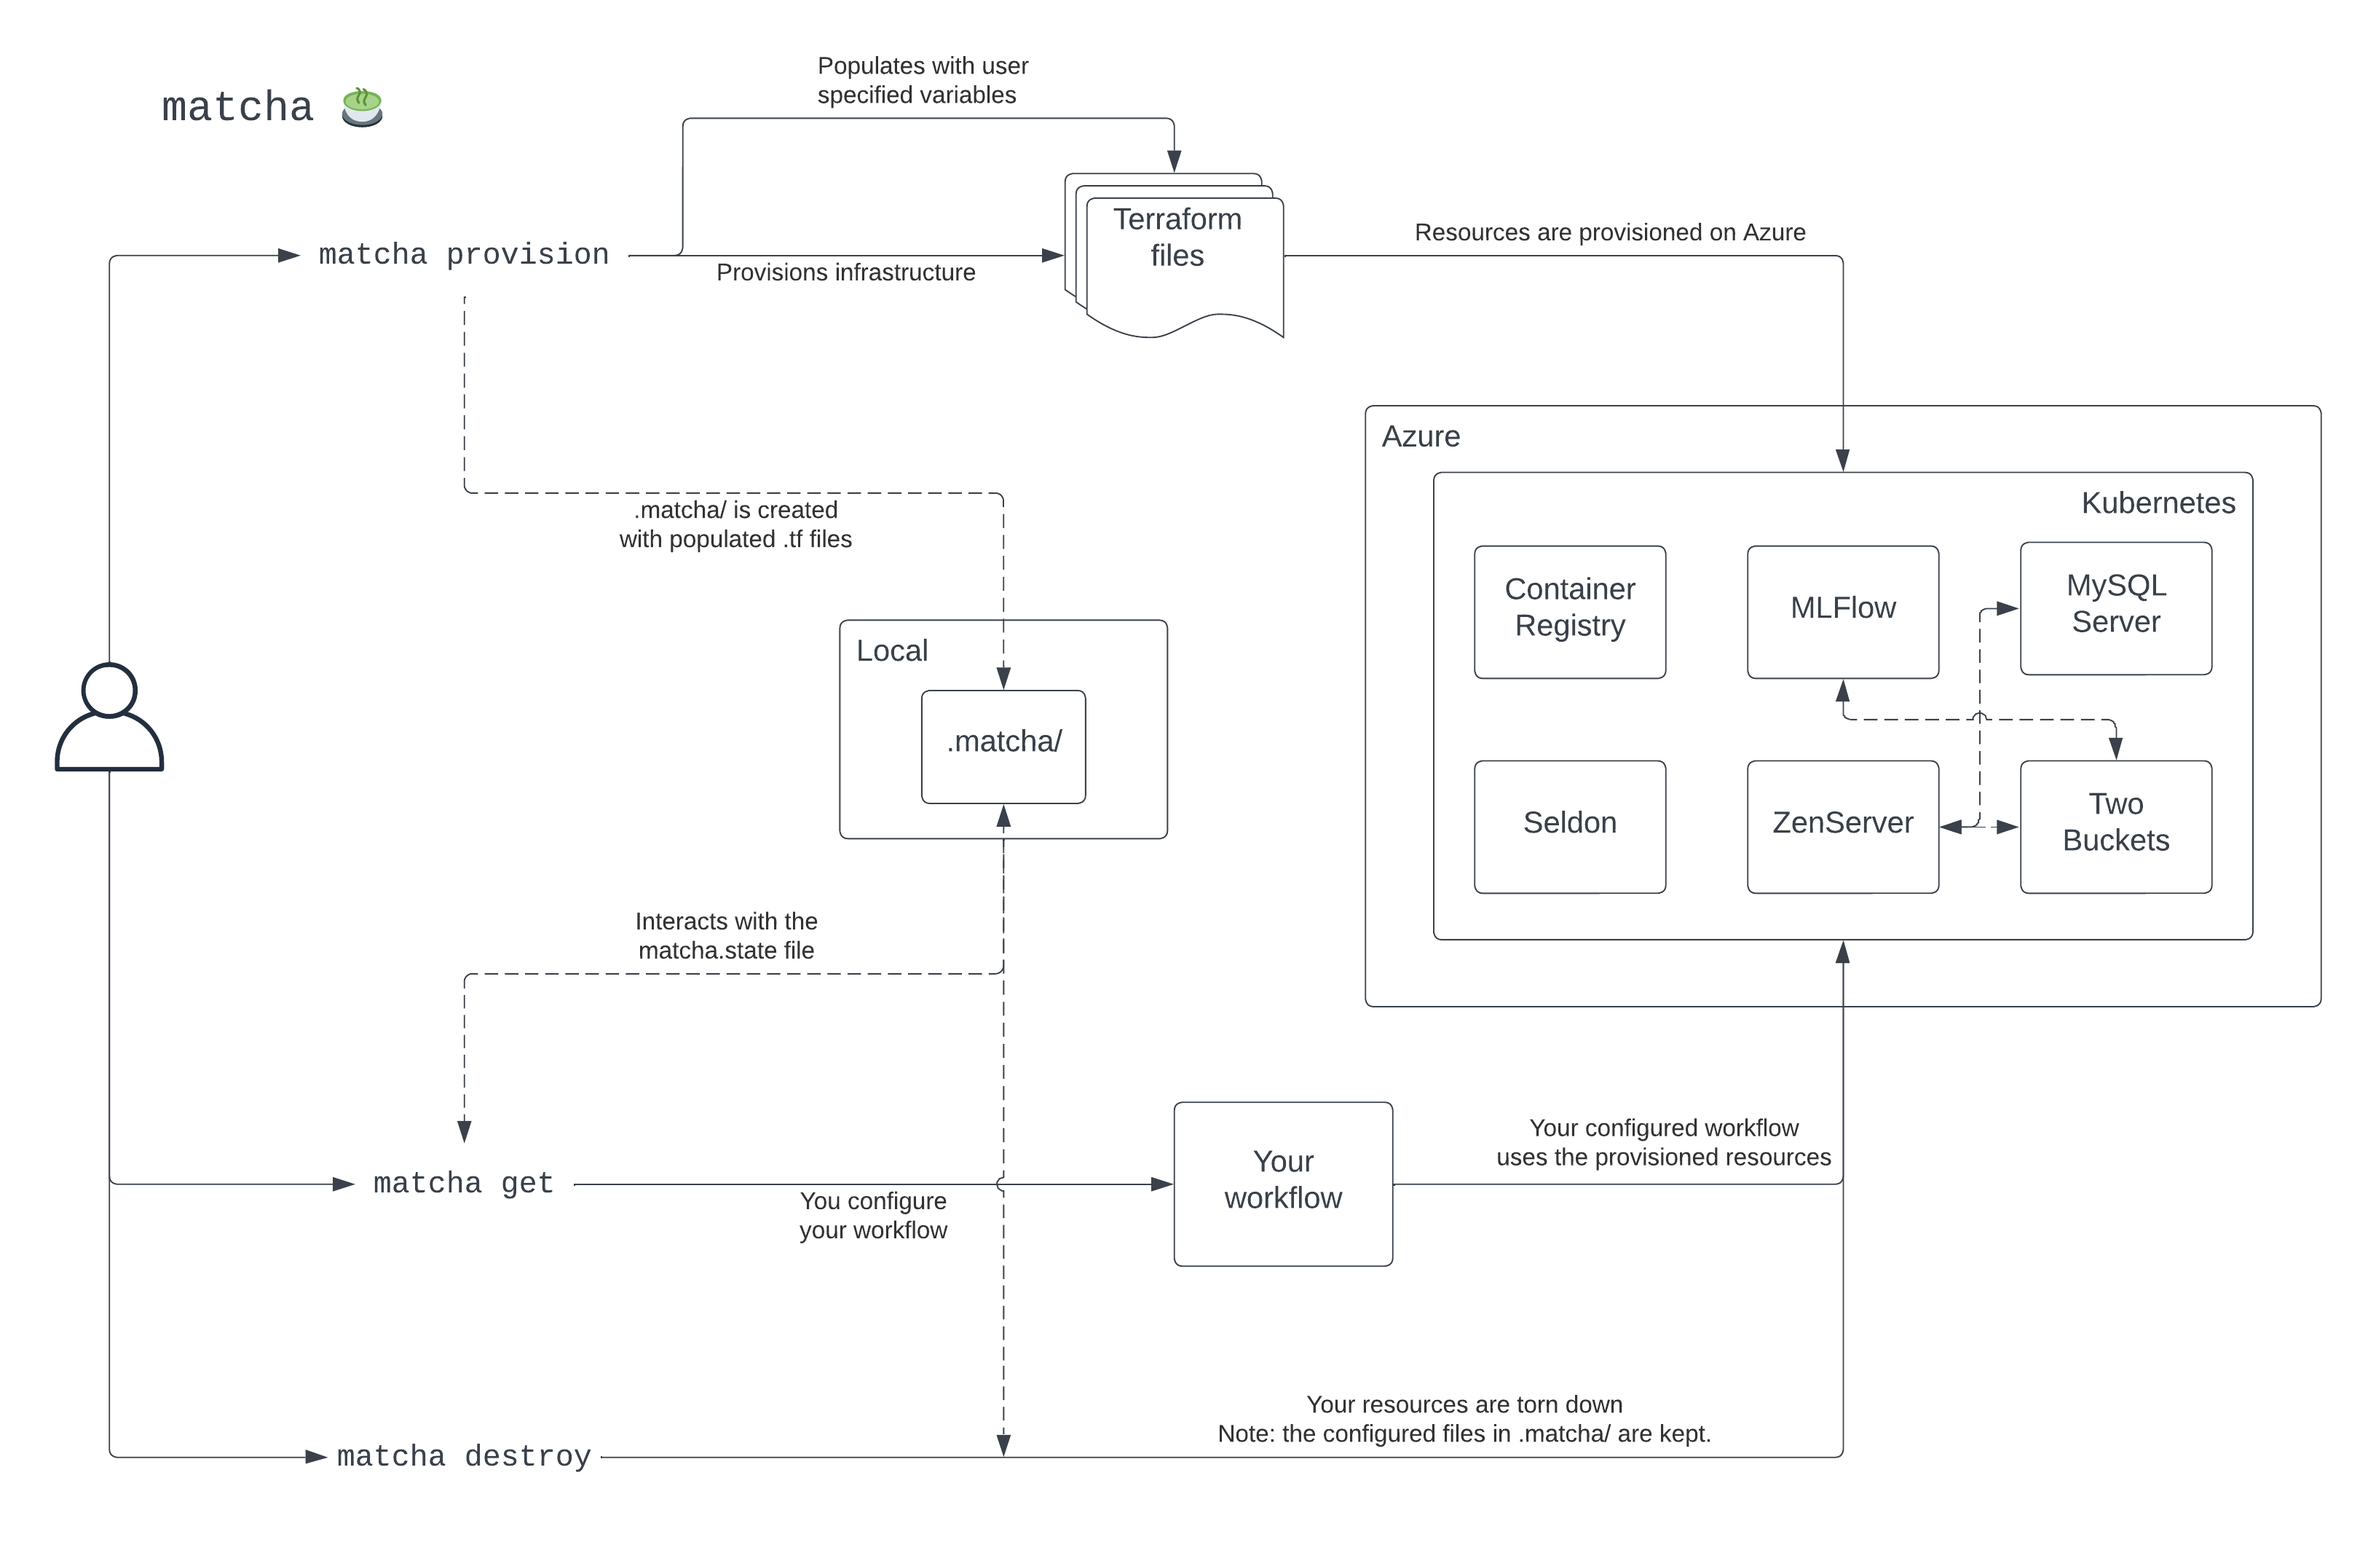
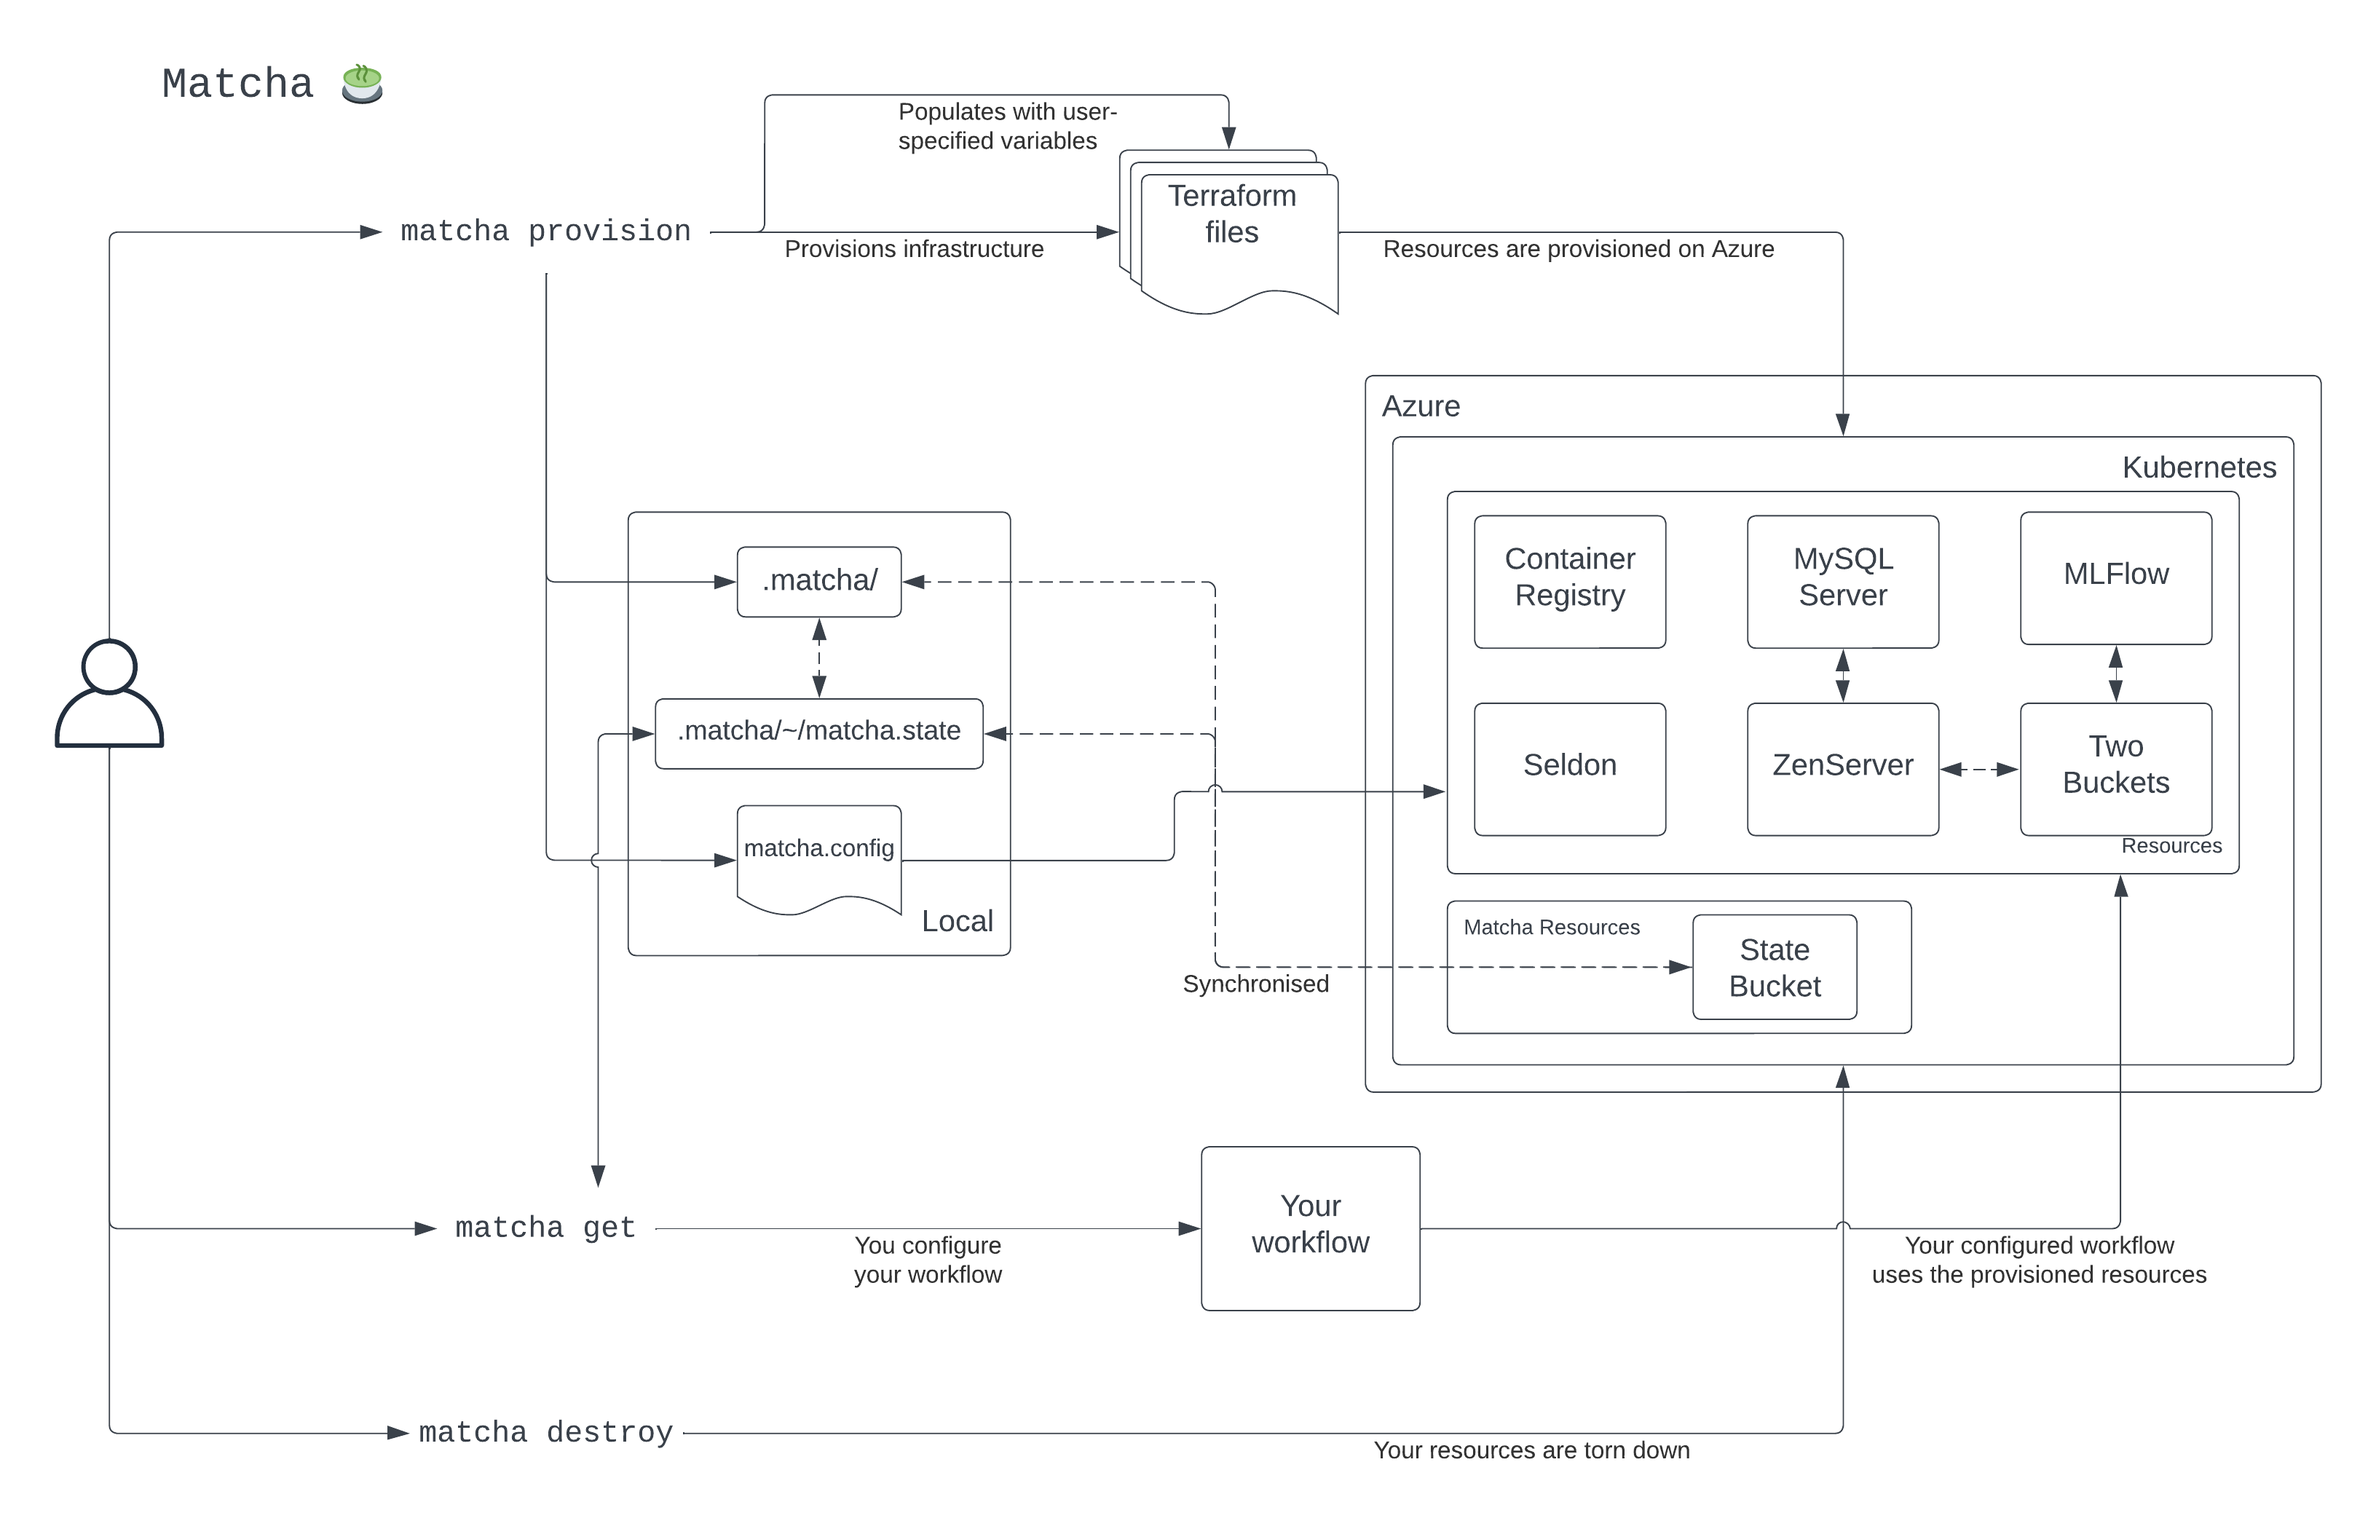
bumping to version v0.2.5 for release

diff --git a/RELEASE_NOTES.md b/RELEASE_NOTES.md
@@ -1,3 +1,35 @@
+# v0.2.5
+
+# &#129309; Matcha goes multi-user!
+
+In this version, we're introducing remote state management. What this means is that more than one user can use and interact with Azure resources provisioned using Matcha.
+
+Our goal is to build a tool that is useful and as usable as possible and to understand this, we're also introducing analytics. These analytics enable us to anonymously understand how the tool is being used. We've provided detailed information about this in [our documentation](https://mymatcha.ai/privacy/)
+
+Date: 6th June 2023
+
+## Features
+
+### &#129489;&#8205;&#127891; Remote State Management
+
+Instead of state being managed locally, meaning that only a single user could use Matcha to provision and interact with resources, state is now managed on Azure. For this to work, we're provisioning an additional bucket on Azure to act as a state oracle.
+
+When a set of resources are provisioned, a `matcha.config.json` file will be created - this enables Matcha to communicate with the resources and must be included in your version control to enable resource sharing between users.
+
+How this works under the hood has been described in detail [here](https://mymatcha.ai/inside-matcha/)
+
+### Analytics
+
+We want to make a tool that is both useful and usable. To achieve this, it's important that we understand how the tool is being used by the community.
+
+By collecting fully anonymised usage data, i.e., logging a command being run, it'll enable us to accelerate development and demonstrate value both for us and potential partners.
+
+This version implements that functionality.
+
+We've explained what we're collecting and why in our documentation - see [here](https://mymatcha.ai/privacy/). Users are automatically opted-in to the collection of the usage data, however, we've implemented functionality to opt-out: `matcha analytics opt-out`
+
+See all changes here: https://github.com/fuzzylabs/matcha/compare/v0.2.4...v0.2.5
+
 # 0.2.4
 
 &#128293; This version contains a hot fix for matcha get command, so it does not throw an error when run without arguments.
